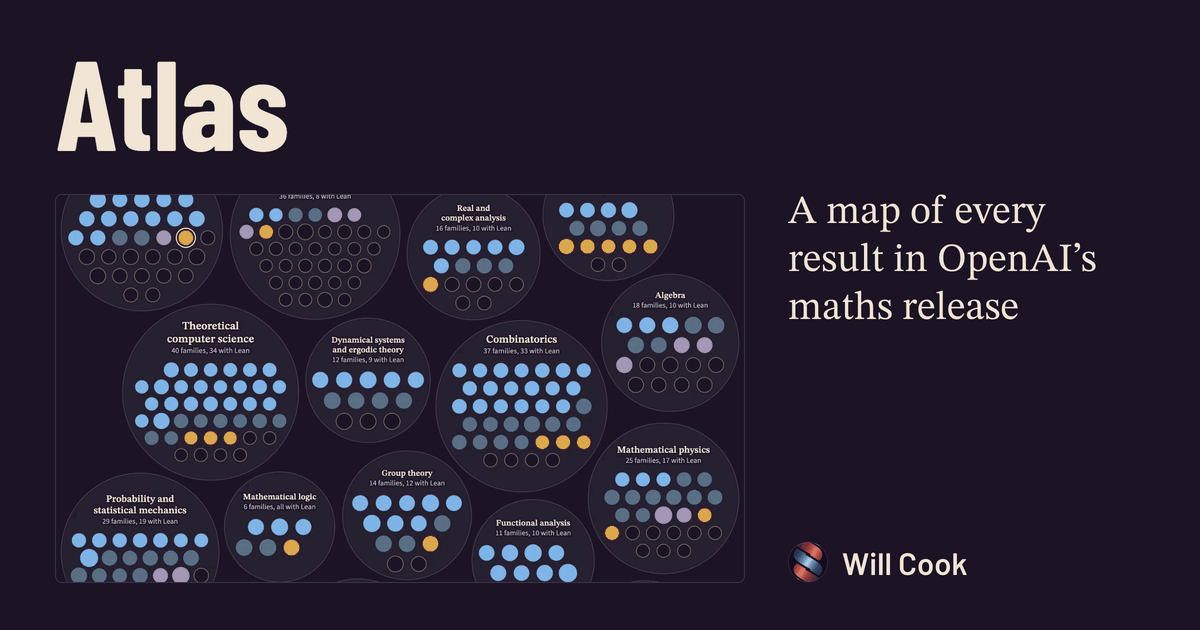
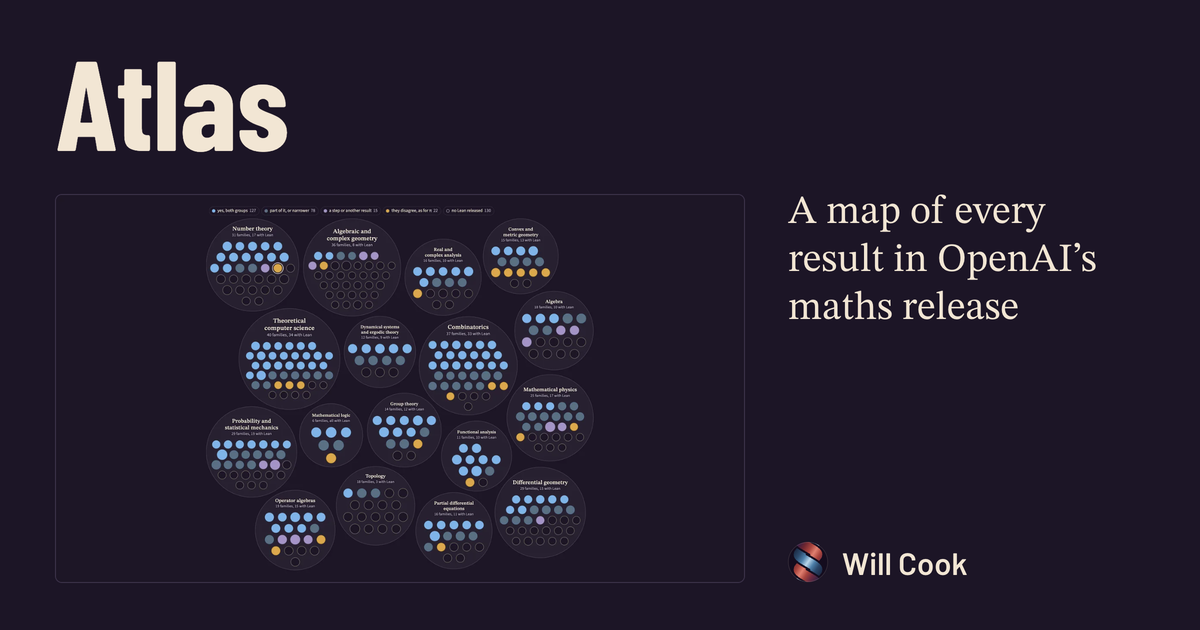
Atlas: show the whole map, uncut, on the tile, the page and the link card

Changed region(s): [[0.0308, 0.3016, 0.6167, 0.9349]]

diff --git a/work/atlas/index.html b/work/atlas/index.html
@@ -18,7 +18,7 @@
   <meta property="og:image" content="https://wcook04.github.io/assets/front/cards/atlas.png">
   <meta property="og:image:width" content="1200">
   <meta property="og:image:height" content="630">
-  <meta property="og:image:alt" content="Atlas: a map of every result in OpenAI’s maths release. Circles of dots, one circle for each subject and one dot for each result.">
+  <meta property="og:image:alt" content="Atlas: a map of every result in OpenAI’s maths release. The whole map: eighteen circles of dots, one circle for each subject and one dot for each result.">
   <meta name="twitter:card" content="summary_large_image">
   <meta name="twitter:image" content="https://wcook04.github.io/assets/front/cards/atlas.png">
   <meta name="color-scheme" content="dark">
